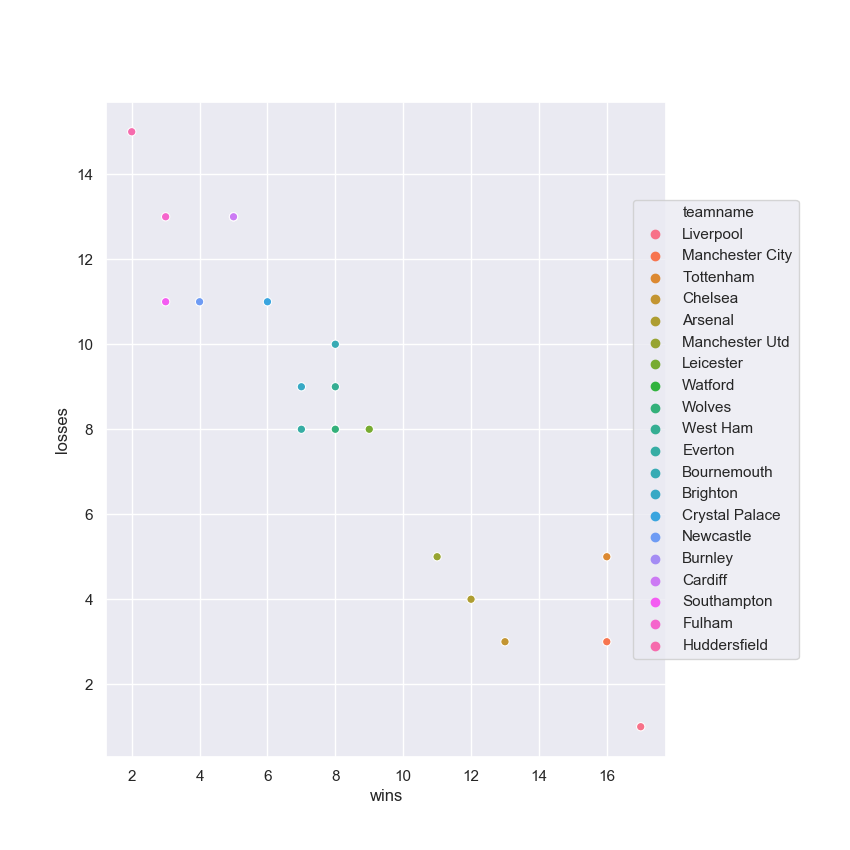
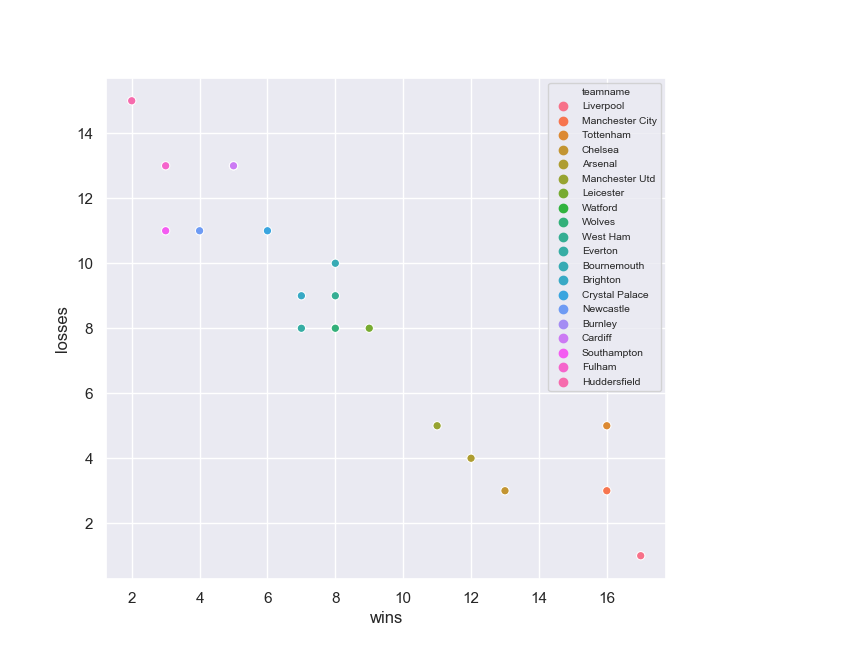
add

diff --git a/main.py b/main.py
@@ -19,7 +19,7 @@ response = response.json()
 data = []
 teamList = []
 outputdict = {}
-figDimensions = (8.5, 8.5)
+figDimensions = (8.5, 6.5)
 
 eplTable = json_normalize(response)
 
@@ -38,6 +38,7 @@ sns_plot.set_position([pos.x0, pos.y0, pos.width * 0.85, pos.height])
 
 sns_plot.legend(loc='center right', bbox_to_anchor=(1.25, 0.5), ncol=1)
 
+plt.legend(loc=1, prop={'size':7.5})
 plt.savefig("output.png")
 plt.show()
 
